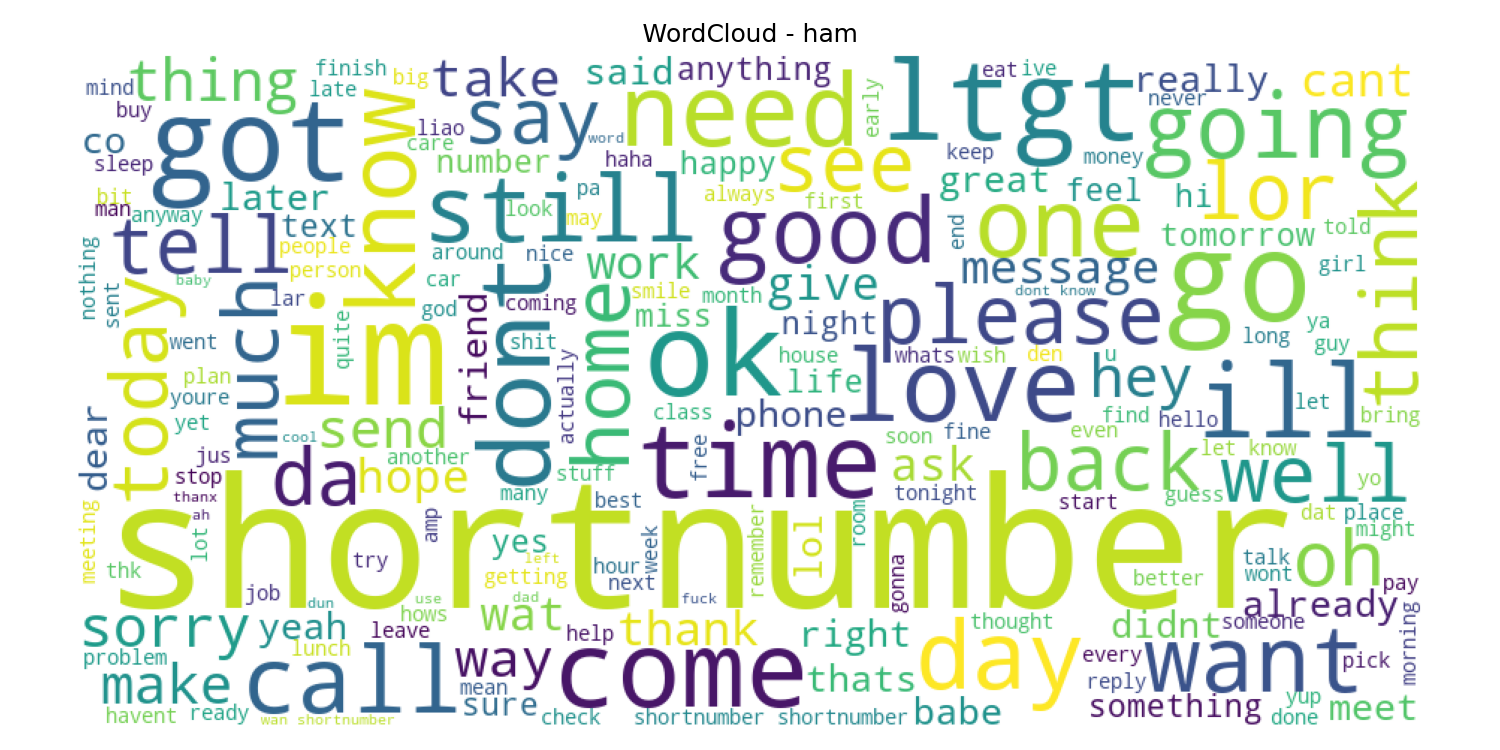
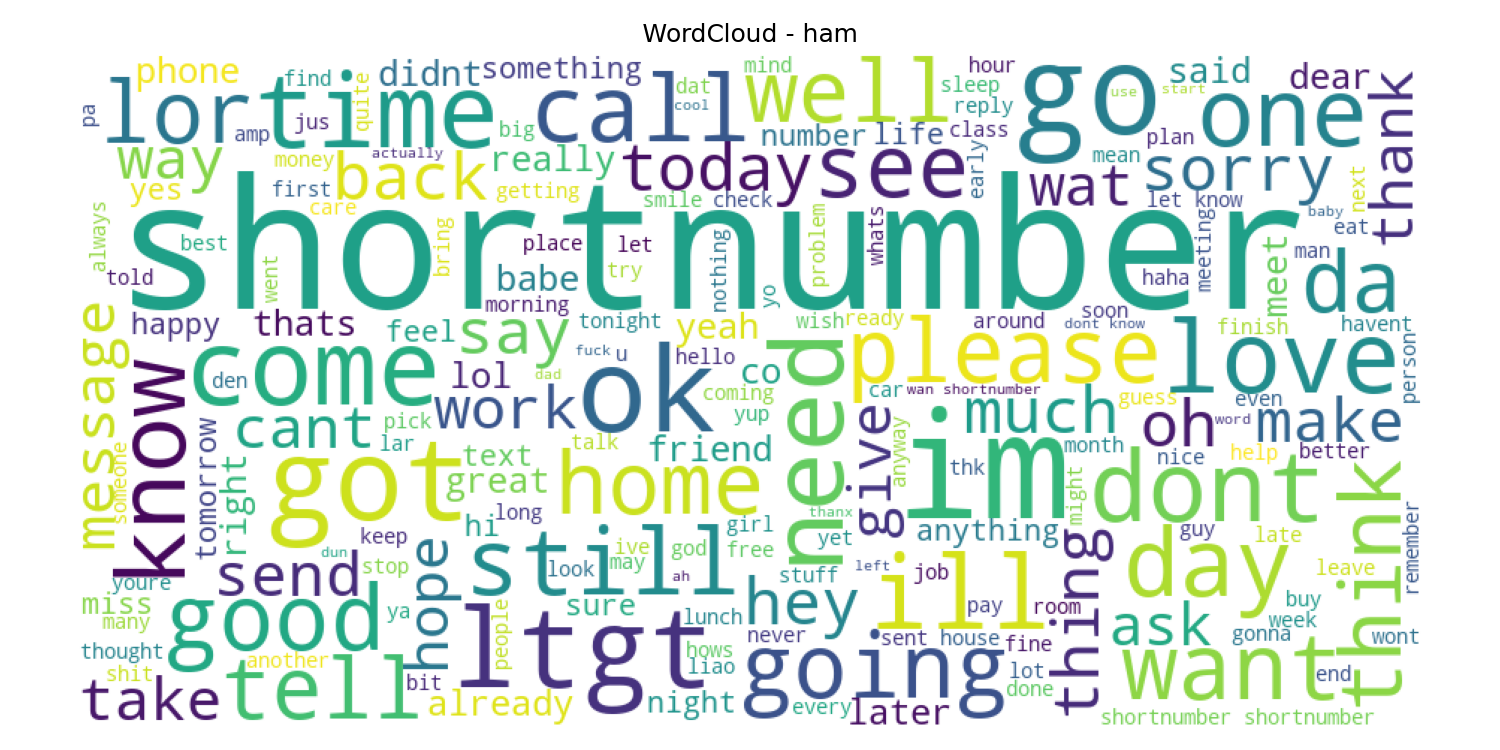
Updated evaluate.py with metrics and added demo files

diff --git a/evaluate.py b/evaluate.py
@@ -8,7 +8,7 @@ import seaborn as sns
 from wordcloud import WordCloud
 
 from sklearn.model_selection import train_test_split
-from sklearn.metrics import confusion_matrix, roc_curve, auc
+from sklearn.metrics import confusion_matrix, roc_curve, auc, accuracy_score, precision_score, recall_score, f1_score
 
 from preprocess import clean_text
 
@@ -90,6 +90,13 @@ def generate_all_plots():
         plt.savefig(os.path.join(PLOT_DIR, f"wordcloud_{name}.png"), dpi=150)
         plt.close()
 
+        print("\n===== Evaluation Metrics =====")
+    print(f"Accuracy : {accuracy_score(y_test, pred):.4f}")
+    print(f"Precision: {precision_score(y_test, pred):.4f}")
+    print(f"Recall   : {recall_score(y_test, pred):.4f}")
+    print(f"F1 Score : {f1_score(y_test, pred):.4f}")
+    print("==============================\n")
+    
     print(f"[OK] Plots saved in: {PLOT_DIR}")
 
 

diff --git a/demo.py b/demo.py
@@ -1,0 +1,26 @@
+import joblib
+from preprocess import clean_text
+
+pipe = joblib.load("models/sms_spam_pipeline.pkl")
+print("=" * 60)
+print("      SMS SPAM DETECTOR - LIVE DEMO")
+print("=" * 60)
+
+test_messages = [
+    "Congratulations! You won a free iPhone. Click here now.",
+    "Hi, are we meeting tomorrow at 3 PM?",
+    "URGENT! Your mobile number has won 2000 pounds. Call now.",
+    "Hey mom, I'll be home by 7 PM.",
+]
+
+for msg in test_messages:
+    cleaned = clean_text(msg)
+    prob = pipe.predict_proba([cleaned])[0][1]
+    label = "SPAM" if prob >= 0.5 else "HAM"
+    print(f"\nMessage  : {msg}")
+    print(f"Result   : {label}")
+    print(f"Confidence: {prob:.2%}")
+
+print("\n" + "=" * 60)
+print("DEMO COMPLETED SUCCESSFULLY!")
+print("=" * 60)
